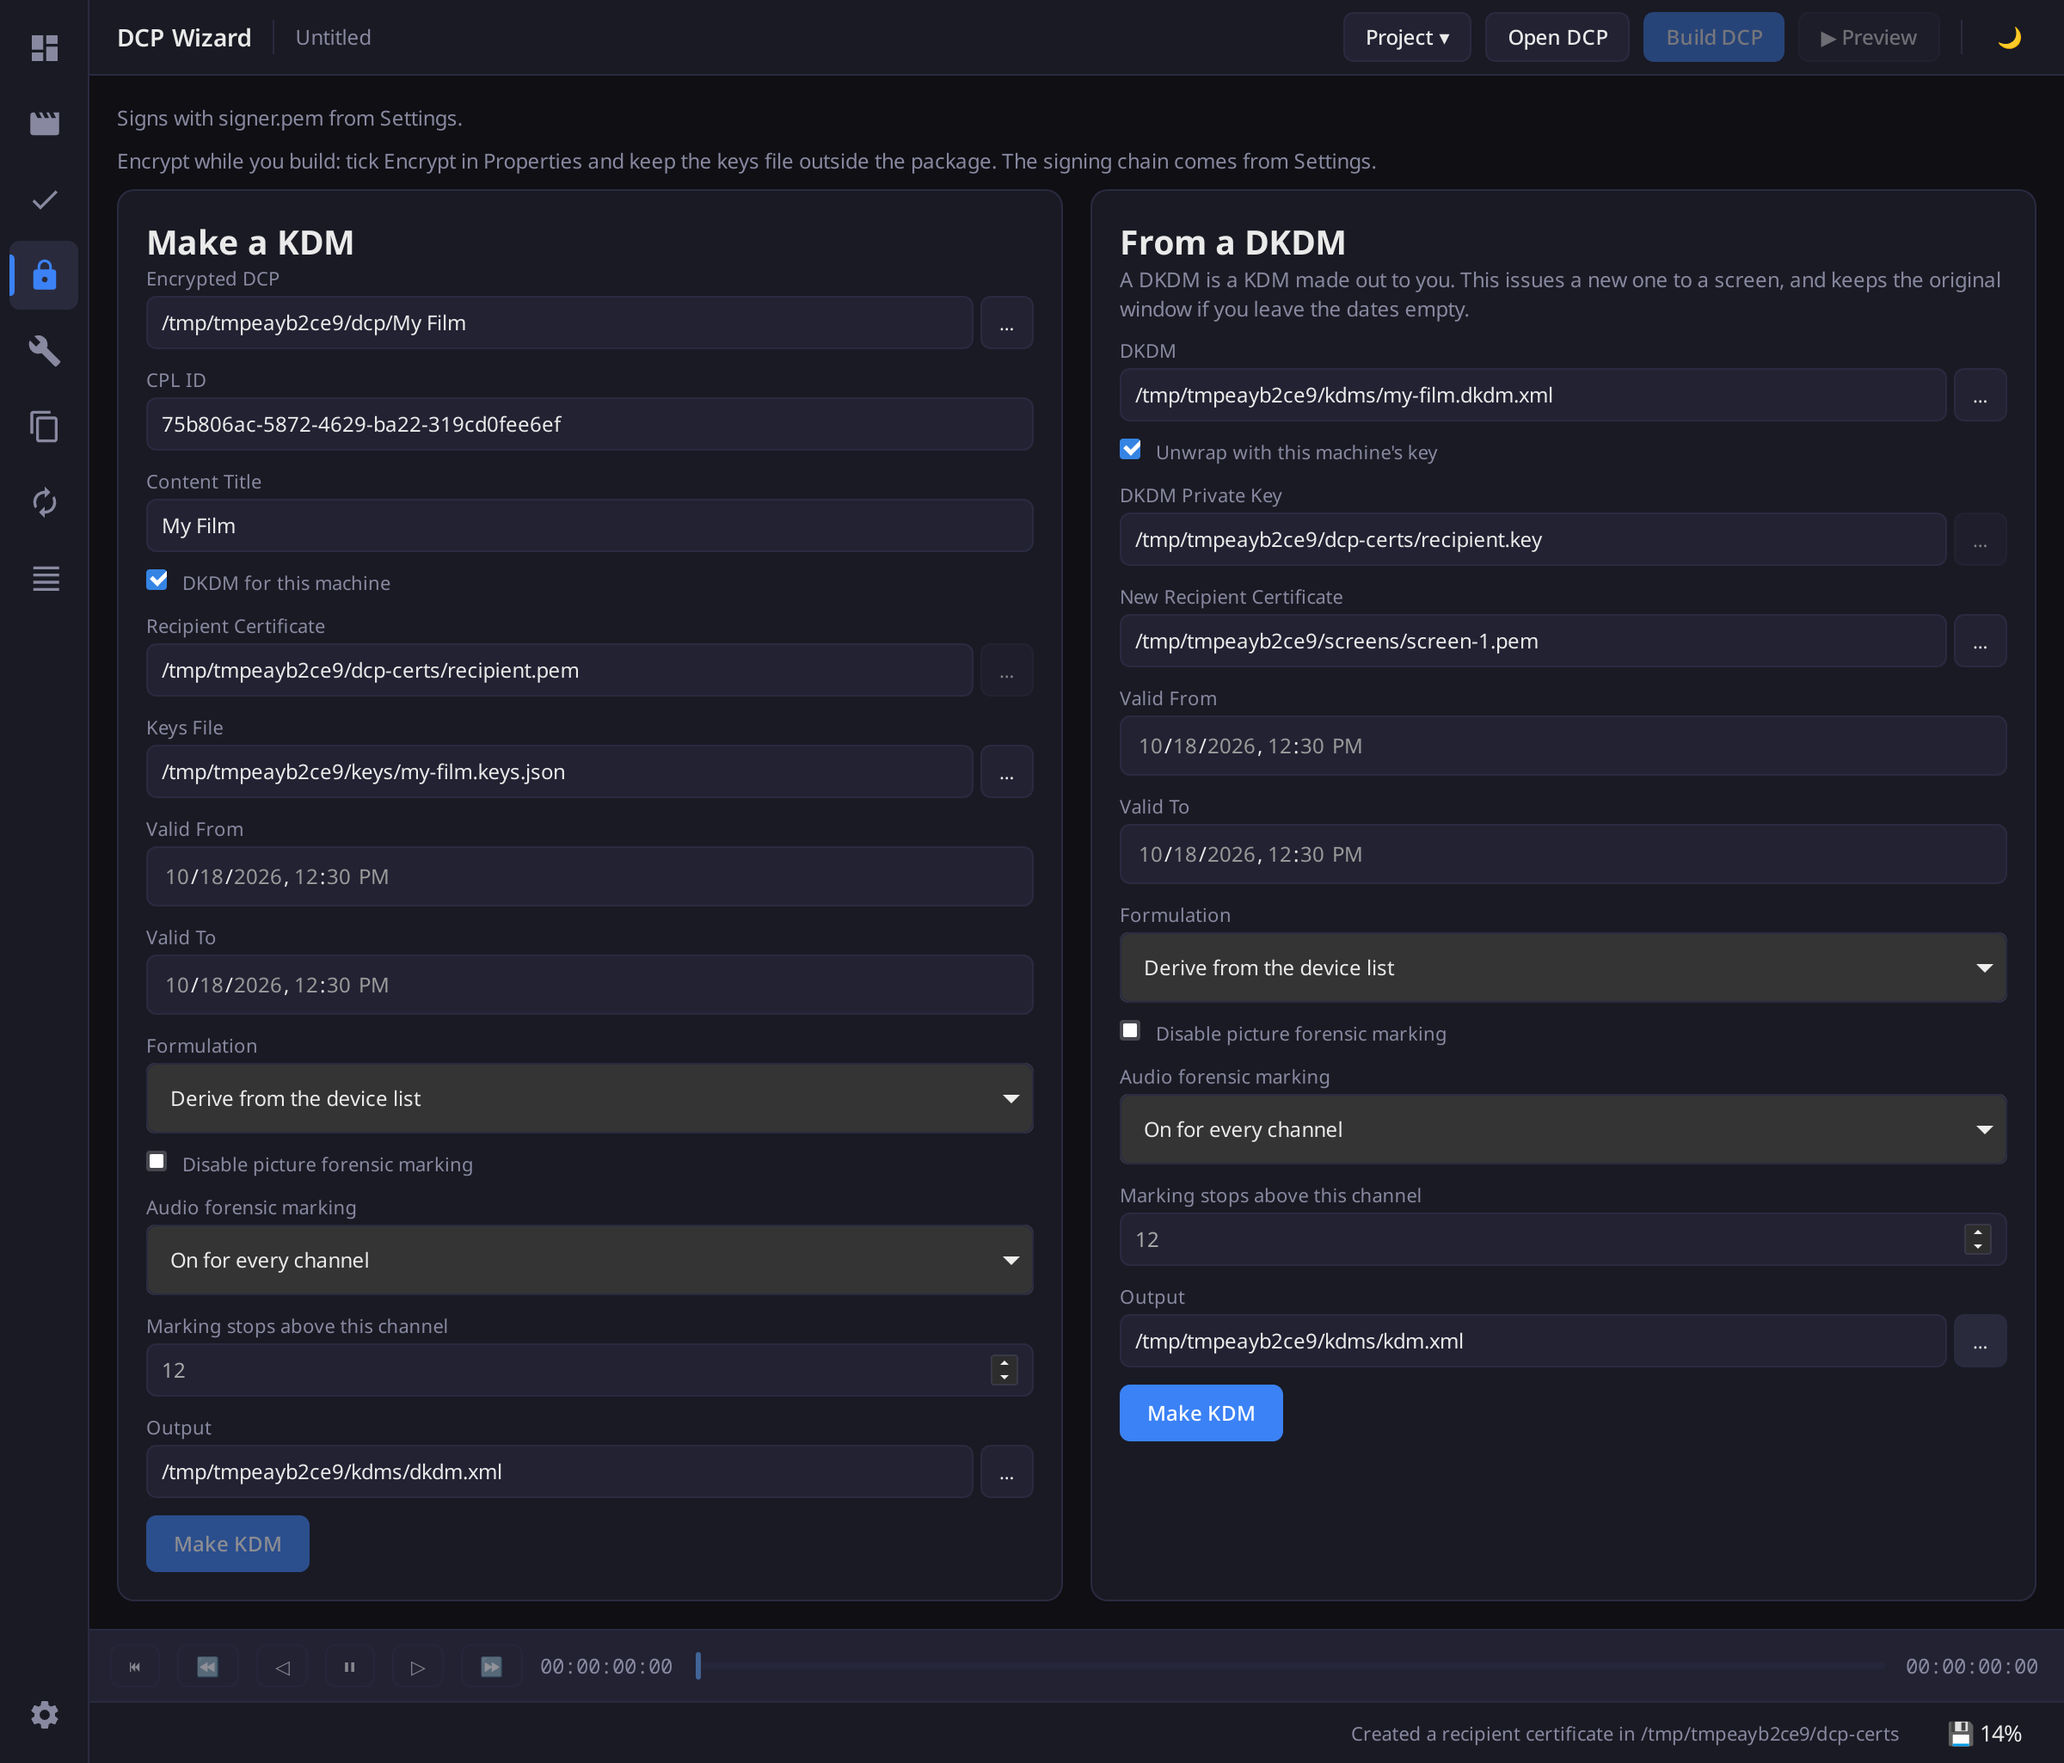
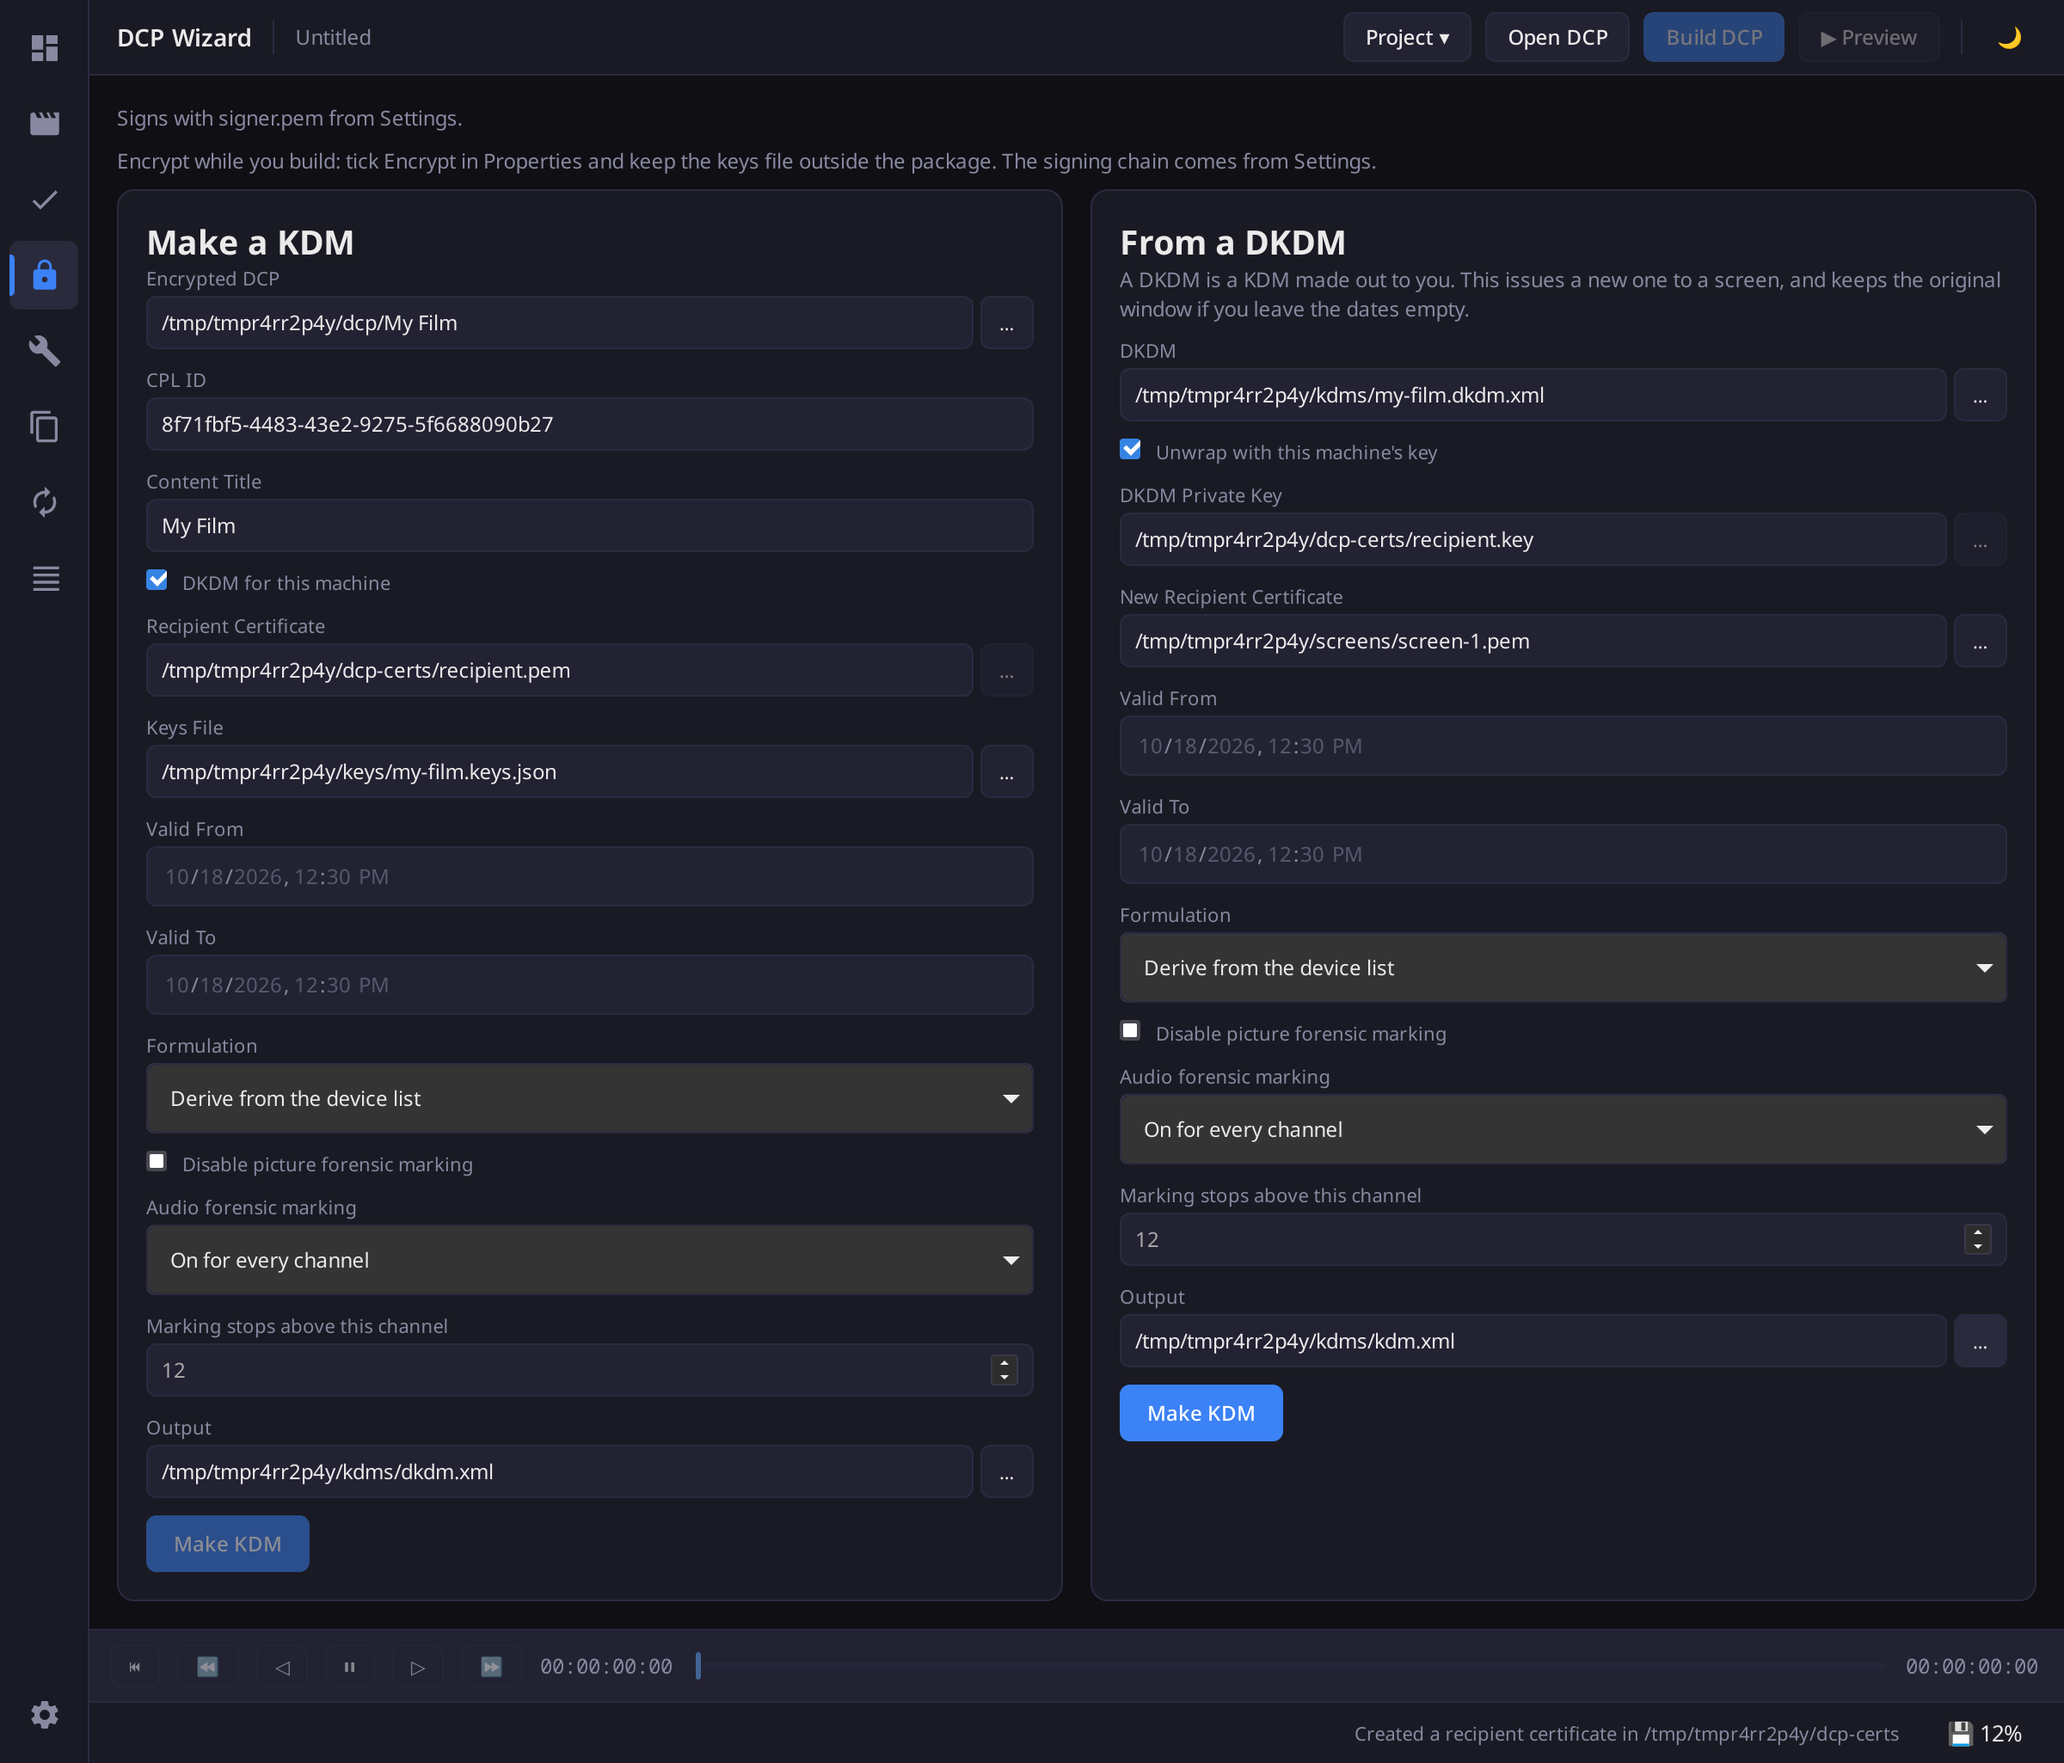
name clips in the reels view, dim empty kdm dates

diff --git a/gui/src/project-timeline.js b/gui/src/project-timeline.js
@@ -1,6 +1,10 @@
+import { reelSpans } from "../../extern/guikit/src/composition-timeline.js";
+import { clipStarts, totalFrames } from "../../extern/guikit/src/timeline-editor.js";
 import { soundSource } from "./channel-set.js";
 
 const FULL_TRACK_PERCENT = 100;
+const CLIP_NAME_SEPARATOR = ", ";
+const EMBEDDED_SOUND_LABEL = "embedded";
 
 // a channel set shows its first file
 function soundFilePath(sound) {
@@ -8,21 +12,53 @@ function soundFilePath(sound) {
   return audioPath ?? audioChannelFiles?.[0] ?? "";
 }
 
-// shaped like get_timeline's entries, one per reel span of the composition's timeline
-export function projectTimelineEntries(spans, editRate) {
-  return spans.map((span, index) => ({
-    reel_id: String(index + 1),
-    reel_number: index + 1,
-    duration_frames: span.frames,
-    entry_point: 0,
-    edit_rate: `${editRate} 1`,
-    picture_asset_id: "",
-    sound_asset_id: "",
-    subtitle_asset_id: "",
-    picture_file: span.picture.path,
-    sound_file: soundFilePath(span.sound),
-    subtitle_file: span.subtitle?.path ?? "",
-  }));
+// a clip is in every reel from the one holding its first frame to the one holding its last
+export function reelClipIndices(timeline) {
+  const total = totalFrames(timeline);
+  const reelStartFrames = [0, ...timeline.reelStarts.filter((frame) => frame < total)];
+  const reelAt = (frame) => reelStartFrames.findLastIndex((start) => start <= frame);
+  const starts = clipStarts(timeline);
+  const reels = reelStartFrames.map(() => []);
+  starts.forEach((clipStart, clipIndex) => {
+    const lastFrame = Math.max(clipStart, (starts[clipIndex + 1] ?? total) - 1);
+    for (let reel = reelAt(clipStart); reel <= reelAt(lastFrame); reel++) reels[reel].push(clipIndex);
+  });
+  return reels;
+}
+
+function clipSoundLabel(clip, assetById) {
+  if (clip.sound.kind === "embedded") return EMBEDDED_SOUND_LABEL;
+  if (clip.sound.kind === "file") return assetById(clip.sound.asset).name;
+  return null;
+}
+
+function reelSoundLabel(timeline, clips, assetById) {
+  if (timeline.sound !== null) return assetById(timeline.sound).name;
+  const labels = clips.map((clip) => clipSoundLabel(clip, assetById)).filter((label) => label !== null);
+  return [...new Set(labels)].join(CLIP_NAME_SEPARATOR);
+}
+
+// shaped like get_timeline's entries, one per reel span of the composition's timeline, plus the names the reel covers
+export function projectTimelineEntries(timeline, assetById, editRate) {
+  const clipIndicesByReel = reelClipIndices(timeline);
+  return reelSpans(timeline, assetById).map((span, index) => {
+    const clips = clipIndicesByReel[index].map((clipIndex) => timeline.clips[clipIndex]);
+    return {
+      reel_id: String(index + 1),
+      reel_number: index + 1,
+      duration_frames: span.frames,
+      entry_point: 0,
+      edit_rate: `${editRate} 1`,
+      picture_asset_id: "",
+      sound_asset_id: "",
+      subtitle_asset_id: "",
+      picture_file: span.picture.path,
+      sound_file: soundFilePath(span.sound),
+      subtitle_file: span.subtitle?.path ?? "",
+      picture_names: clips.map((clip) => assetById(clip.picture).name).join(CLIP_NAME_SEPARATOR),
+      sound_names: reelSoundLabel(timeline, clips, assetById),
+    };
+  });
 }
 
 // with no reel length known yet each reel gets an equal share of the track

diff --git a/gui/src/timeline.js b/gui/src/timeline.js
@@ -33,12 +33,13 @@ export async function loadTimelineFromCpl(cplPath) {
 }
 
 // Load timeline from the project model (for DCPs being built)
-export function loadTimelineFromProject(reelSpans, editRate) {
-  if (reelSpans.length === 0) {
+export function loadTimelineFromProject(timeline, assetById, editRate) {
+  const entries = projectTimelineEntries(timeline, assetById, editRate);
+  if (entries.length === 0) {
     renderEmpty();
     return;
   }
-  buildTimelineData(projectTimelineEntries(reelSpans, editRate));
+  buildTimelineData(entries);
   followsProjectTimeline = true;
   render();
 }
@@ -171,7 +172,7 @@ function renderTracks() {
     }
 
     // Sound segment
-    if (reel.sound_file || reel.sound_asset_id) {
+    if (reel.sound_file || reel.sound_asset_id || reel.sound_names) {
       const seg = createSegment(reel, leftPct, widthPct, soundColors[(reel.reel_number - 1) % soundColors.length], 'sound');
       soundEl.appendChild(seg);
     }
@@ -199,7 +200,9 @@ function createSegment(reel, leftPct, widthPct, color, type) {
 
   const label = document.createElement('span');
   label.className = 'segment-label';
-  label.textContent = `R${reel.reel_number}`;
+  // only a project's entries name their clips
+  const names = reel[`${type}_names`];
+  label.textContent = names ? `R${reel.reel_number} ${names}` : `R${reel.reel_number}`;
   seg.appendChild(label);
 
   const dur = document.createElement('span');

diff --git a/gui/src/main.js b/gui/src/main.js
@@ -26,7 +26,6 @@ import {
   firstSoundAsset,
   firstSubtitleAsset,
   parseFrameRate,
-  reelSpans,
   splitTimecodeFrames,
   splitTimecodeSpec,
   timelineFrameAtSourceFrame,
@@ -2598,6 +2597,15 @@ for (const id of ["dkdm-from", "dkdm-to", "dkdm-formulation", "dkdm-audio-markin
   document.getElementById(id)?.addEventListener("change", checkRewrapReady);
 }
 document.getElementById("dkdm-no-forensic-picture")?.addEventListener("change", checkRewrapReady);
+
+function markEmptyDateField(field) {
+  field.classList.toggle("empty-date", field.value === "");
+}
+for (const field of document.querySelectorAll('input[type="datetime-local"]')) {
+  markEmptyDateField(field);
+  field.addEventListener("input", () => markEmptyDateField(field));
+  field.addEventListener("change", () => markEmptyDateField(field));
+}
 document.getElementById("dkdm-use-own-key")?.addEventListener("change", () => {
   useOwnKey("dkdm-use-own-key", "dkdm-key", "dkdm-browse-key", getPrefs().recipientKey);
   checkRewrapReady();
@@ -3673,7 +3681,7 @@ function takeProjectDefaultsFromPreferences() {
 
 function showProjectTimeline() {
   if (openedPackage) return;
-  loadTimelineFromProject(reelSpans(activeTimeline(), assetById), timelineEditRate());
+  loadTimelineFromProject(activeTimeline(), assetById, timelineEditRate());
 }
 
 preferencesLoaded.then(() => {

diff --git a/gui/src/style.css b/gui/src/style.css
@@ -82,6 +82,18 @@
   border-left: 3px dashed var(--primary);
 }
 
+/* WebKit draws today's date in an empty date field */
+.prop-field input[type="datetime-local"].empty-date {
+  color: var(--text-muted);
+}
+
+/* a project's segment label holds file names */
+.segment-label {
+  text-transform: none;
+  overflow: hidden;
+  text-overflow: ellipsis;
+}
+
 .field-hint {
   font-size: 12px;
   color: var(--text-muted);

diff --git a/tests/test_gui_webdriver.py b/tests/test_gui_webdriver.py
@@ -1562,6 +1562,10 @@ EDITOR_PLAYHEAD_LEFT = """
 return document.querySelector("#timeline-editor .timeline-editor-playhead")?.style.left ?? null;
 """
 
+SEGMENT_LABELS = """
+return [...document.querySelectorAll(arguments[0] + " .segment-label")].map((label) => label.textContent);
+"""
+
 
 def test_play_timeline_plays_the_trimmed_clips_back_to_back(window, tmp_path):
     session = window.session
@@ -1622,6 +1626,7 @@ def test_play_timeline_plays_the_trimmed_clips_back_to_back(window, tmp_path):
         lambda: session.execute(RULER_PLAYHEAD_LEFT) not in (None, RULER_PLAYHEAD_AT_START),
         REACTION_TIMEOUT_SECONDS,
     )
+    assert session.execute(SEGMENT_LABELS, "#timeline-picture") == [f"R1 {first.name}, {second.name}"]
 
 
 

diff --git a/CHANGELOG.md b/CHANGELOG.md
@@ -12,6 +12,8 @@
 - **Subtitles already burnt into the source can be named**: `create --subtitles-burnt-in` and the Properties checkbox Subtitles are already burnt into the picture say the source picture carries subtitles in the subtitle language, so the ISDCF name spells them in lower case, `AR-en` for Arabic sound with English subtitles in the picture. A packaged subtitle track still decides the name. The Subtitle language field is now labelled Subtitle language (subtitle track or burnt-in subtitles).
 
 ### Fixed
+- **The reels view names a project's clips and its sound**: a reel's picture segment read only R1, and a reel whose clips played their embedded sound had no sound segment. The picture segment now names the clips the reel covers in order, as in R1 movie.mov, trailer.mov, and the sound segment names the sound files or embedded.
+- **An empty Valid From or Valid To reads as empty**: on Linux an empty date field on the KDM screen showed today's date at full brightness, as if a date were set. The date is now drawn in the muted text colour until one is picked.
 - **A preview scrolled partly out of the left column stays inside it**: on Linux, scrolling the project view's left column so the top of the preview left the column drew the picture over the toolbar, and once that top went above the window the picture moved left over the sidebar and GTK warned that it could not adjust the size allocation. The picture is now cut to the part of the preview the column shows.
 - **A timeline of JPEG 2000 sources previews with its sound and subtitles**: Play timeline on JPEG 2000 clips played picture only. It now plays the timeline's sound and each clip's subtitles.
 - **A version 2 project keeps a reel start when a clip cannot be read**: opening one where a reel's video could not be probed placed none of its reel starts, and the next save dropped them. The reel starts are now placed once every clip has been probed, a clip that could not be read counting as empty.
